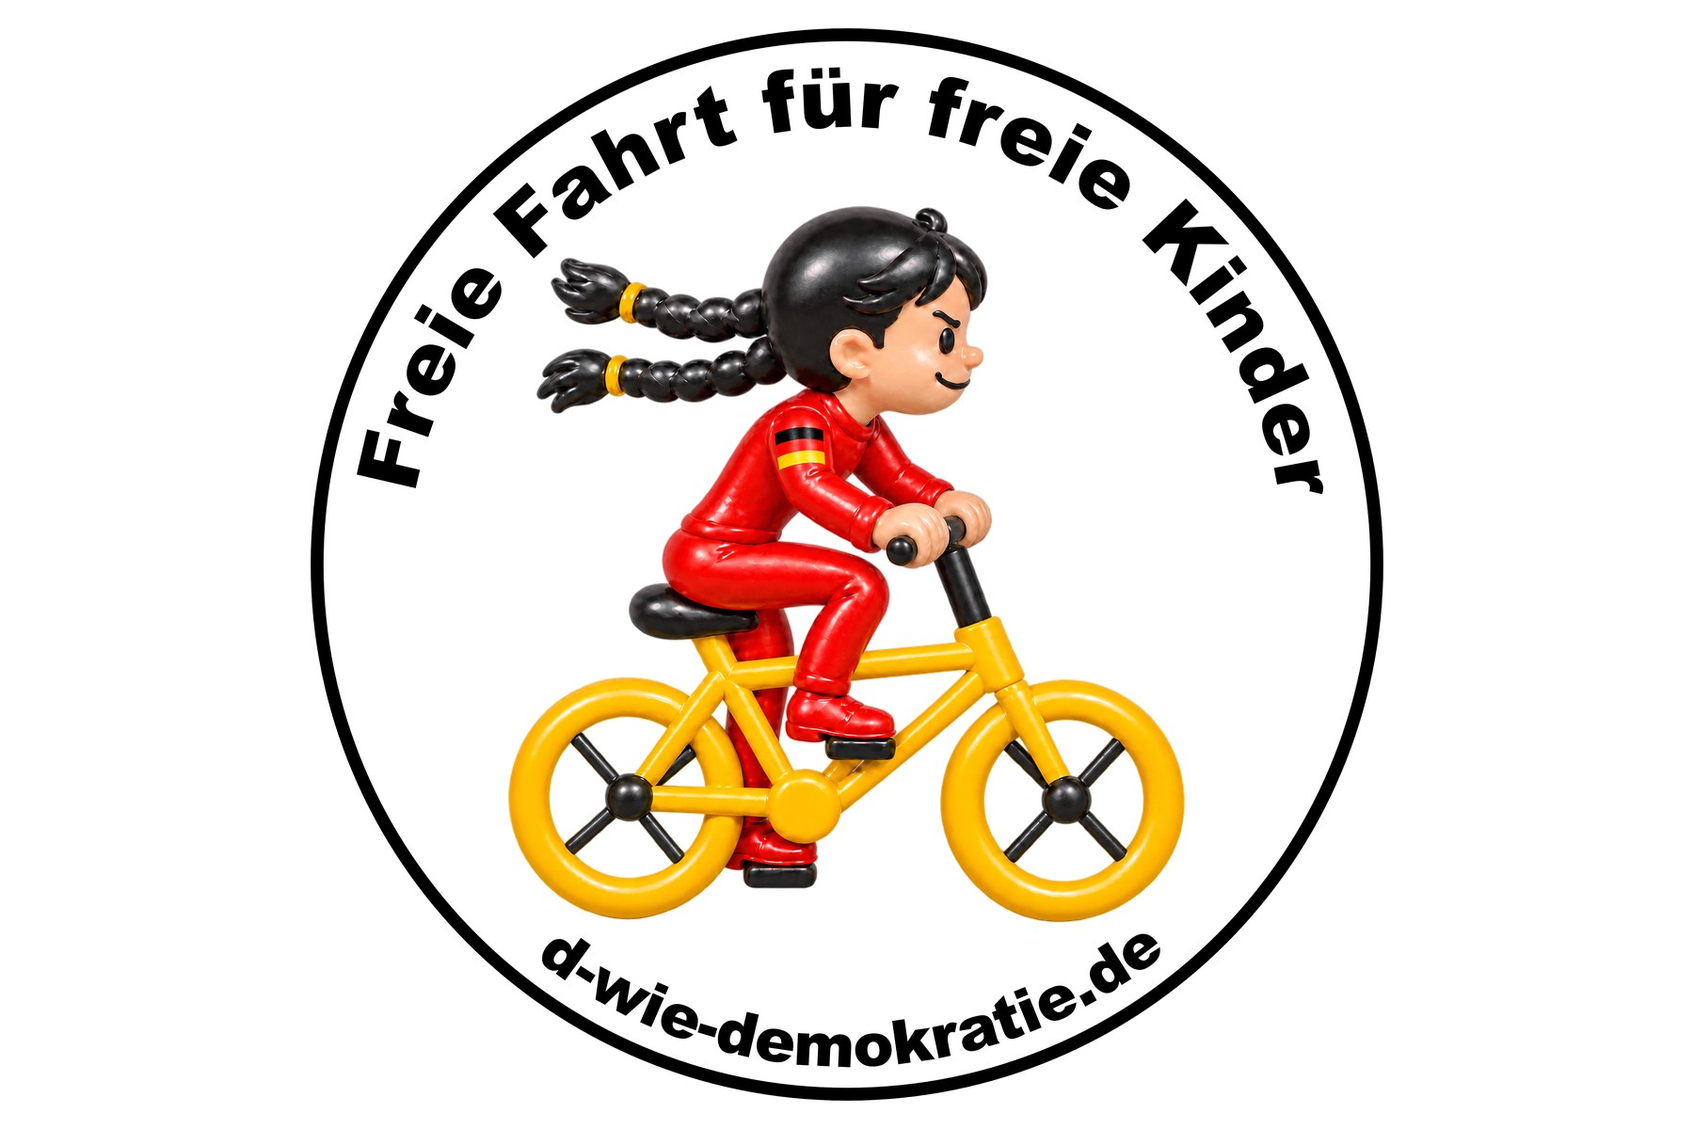
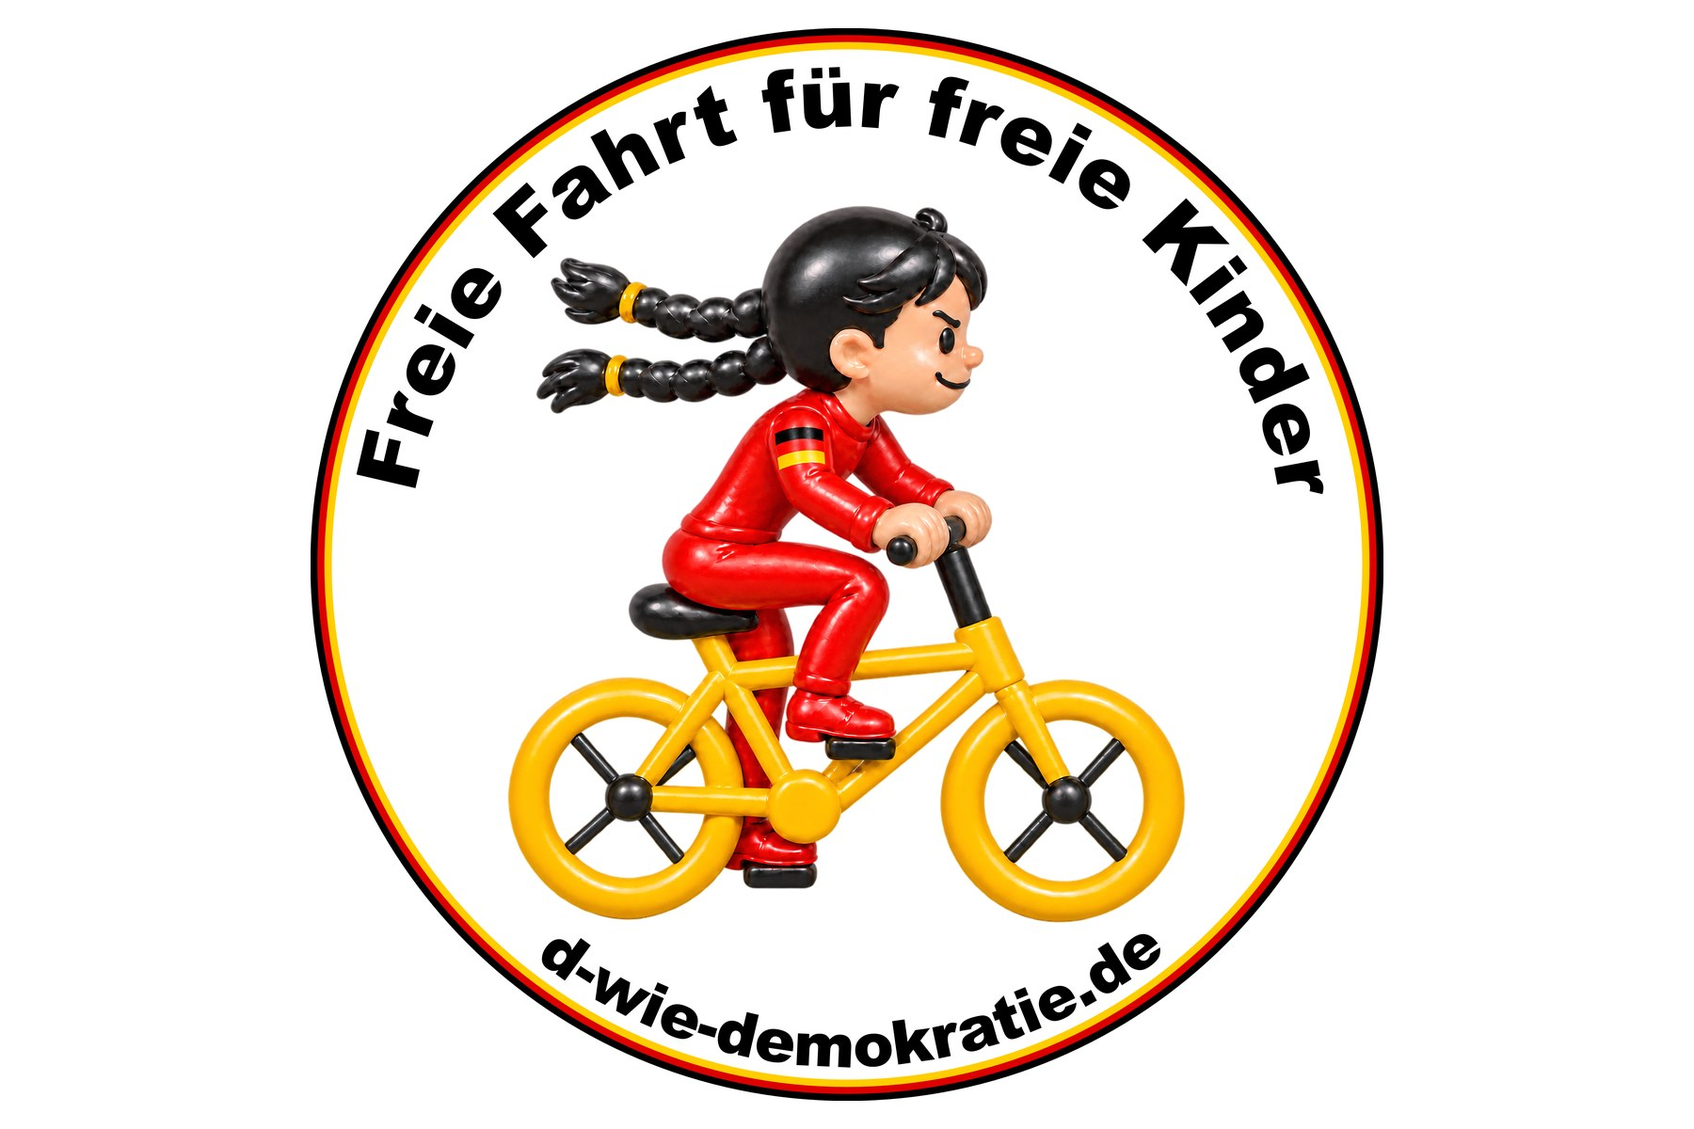
Motiv 15: Rand in Schwarz-Rot-Gold statt nur schwarz (beide Fassungen, Startseiten-Querformat); CLAUDE.md: neuer Rand für runde Motive

diff --git a/CLAUDE.md b/CLAUDE.md
@@ -24,7 +24,7 @@ Push to `main` triggers GitHub Actions (`.github/workflows/deploy.yml`), which b
 
 - `src/layouts/Layout.astro`: shared `<head>` (meta, Open Graph, Umami script), sticky header with black-red-gold stripe and tab navigation, footer links. Global CSS variables live here. Also holds the tab order (`reiter`) used for swiping between tabs on mobile and for the slide animation (native cross-document View Transitions, only on touch devices); a new tab must be added there as well as in the nav. The ☰ menu at the right of the header lists all pages (array `menue`, plus Impressum/Datenschutz in `menueKlein`); a new page without its own tab only goes there, and such a page gets its own red-underlined tab for the current page (`aktuell`): on phones it replaces „Motive“ (short name `handy`, e.g. „Einreichen“, „Geschichte“), from 700 px it sits after „Motive“ (name `kurz`, e.g. „Geschichte“). Tabs since 2026-11-18: logo (start), Fragen, Verbündete, Motive; since 2026-11-25 the Motive tab reads „Motive & Shop“ (only below 340 px „Motive“; ☰ menu entry too); to make room „Fragen“ becomes „FAQ“ below 410 px and on desktop when an extra tab for the current page is shown (classes `frage-lang/-kurz`, `motive-lang/-kurz`, `mit-aktuell`); the flag history tab is „Geschichte“ on desktop too. Measured at 320–1000 px, nothing overlaps the ☰; „Mitmachen“ and „Unterstützen“ are only in the ☰ menu. These tabs are not part of `reiter`/swiping. Pages not in the menu (Statistik) mark the ☰ with the red bar instead. Header widths are tuned so everything fits from 320 px; re-measure after changing tab names.
 - `src/pages/index.astro`: landing page: photo slider at the top (crossfade every few seconds, newest motif first; arrows ‹ › beside the line „Motiv N von M“ below and the arrow keys step through and stop it, since 2026-11-22 instead of dots; no swipe, that switches tabs; `bilder` array at the top, files in `src/assets/slider/`, new ones 1800 × 1200 px JPEG named `motiv-<nr>-<was>.jpg`; each photo links to `/motive/#motiv-<nr>` of the motif it shows; since 2026-11-21 a mix of two AI photos and three motif slides (`07-motiv-7.jpg` etc., since 2026-11-22 motif as large as possible on white without text, built from the print PNGs with `scripts/slider-querformate.py`; the line below each image („Motiv <nr> von <anzahl>“) is HTML, field `text` in `bilder`, no AI label); the AI photos are to be replaced by real photos of shirts; the AI photos carry the visible "KI-generiert" note (Art. 50 AI Act, must stay visible, not behind a click) for entries with `foto: true`), then visible h1 „Wir zeigen Flagge“, the values with links to Art. 1–5 GG, a box styled as the flag (black-red-gold stripes, with the 1990 Reichstag photo as a grey watermark; its credit sits below the box) that rotates quotes (array `zitate` at the top: Klopp, Steinmeier …; each with an `id` such as `zitat-aigner`, so `/#zitat-aigner` shows that quote and stops the rotation; each with a button to the video or speech, only linked, not embedded; Klopp's video also linked in FAQ `#farben`; below the dots a small line links „Viele weitere Stimmen …“ to the 2024 campaign demokratie-liebe.de (Artikel 1 e.V.), jumping straight to „Erstunterzeichnerinnen und Erstunterzeichner“ via `#brxe-idyuix` (no text fragment: it would match the same words in the PDF paragraph above), new tab, Umami `mehr-stimmen`), then a preview of all motifs, newest first (thumbnails of the first version, each linking to `/motive/#motiv-<nr>`; later only the newest). Old anchors `/#motiv-<nr>`, `/#motive`, `/#herunterladen` and `/#shop` are forwarded to `/motive/` by an inline script.
-- `src/pages/motive.astro`: tab „Motive“ (since 2026-11-18): intro (we want many motifs, from children, artists, designers …; link to „Motiv einreichen“), then two accordion questions (`<details>`, `#herunterladen` and `#shop` open them; download terms: print and share freely, don't alter; shop: Spreadshop by Spreadshirt (Leipzig) https://d-wie-demokratie.myspreadshop.de/, set up as Non-Profit-Shop (margin 0, customer pays Spreadshirt's base price), clothing organic cotton or recycled material (almost all Stanley/Stella; hats and beanies recycled), plus bags (organic or recycled), mugs, bottles, stickers, magnets, posters, aprons, umbrellas (shop answer and FAQ say so since 2026-11-26; product list with colours in `docs/shop-produkte.md`); Spreadshirt is the seller, 30-day return/exchange; linked from the question (button) and per motif or per version (`shop` in `liste` or in a `varianten` entry, `/all?mainDesignId=<id>`; switch `shopAktiv`), not embedded, so the site stays free of third-party cookies; biotshirt (YTWOO, Düsseldorf) was linked 2026-11-12 to 2026-11-18 and dropped because it accepts no returns (texts in commit 7918eb7); wording rule: never call products „GOTS-zertifiziert“, only say what the product pages state, e.g. „aus Bio-Baumwolle“) then the numbered motifs one under another (since 2026-11-27 newest first by default; two pill buttons „Neueste zuerst / Älteste zuerst“ right-aligned above the list reorder them by JS, choice kept in `localStorage['motive-sortierung']`; without JS 1 upwards; drafts stay last; since 2026-11-28 a search field left of them filters while typing by title, alt text, number, designer and the field `stichwoerter` per motif (only specific words, taken from the Spreadshop tags without the generic ones; give every new motif `stichwoerter` and use the same words plus the generic ones as shop tags), ä/ae and case ignored, a pure number finds that motif, shows „N von M Motiven“ or „Kein Motiv gefunden“, search kept in the URL `?suche=`, Umami `motive-suche` counts only that someone searched, not the term; list `liste` in `src/data/motive.ts`, shared with the landing-page preview, each linkable via `/motive/#motiv-<nr>`), each with links to PNG, PDF and its shop search. Per motif: PNG `src/assets/motive/d-wie-demokratie-motiv-<nr>.png` (4000 px, transparent; thumbnail and download) and PDF `public/download/d-wie-demokratie-motiv-<nr>.pdf` (CMYK); a motif only shows once its PNG exists, a missing PDF or shop link just drops that link. Klaus keeps all motif files (PDF and PNG, same name) in `motive/` (gitignored working folder, a mirror of the published files) and exports there from Affinity; when he says so, Claude compares it with `src/assets/motive/` and `public/download/`, checks only new or changed files (size, transparency, sRGB, PDF/X-4, FOGRA39, exact CMYK values, no layers, no images) and copies them over. Numbers are only given to finished motifs (print PNG exists), in order of completion; drafts never get a number. A draft has `bald: true` and `id` (anchor `/motive/#<id>`, preview file `src/assets/motive/bald/<id>.png`, Klaus's AI draft with the white outside made transparent), shows without number below the finished motifs with a gold „Kommt bald“ badge instead of download/shop links, and is left out of the landing-page preview (none at the moment; the blackbird „Oh Ei, oh Ei!“ was dropped 2026-11-21 as too negative). Since 2026-11-23 the website PNGs of the round motifs 3–10 and 12 have an exactly circular outer ring (made with `scripts/kreis-rund.py`, the AI rings were wavy); since the same day the Spreadshop designs of 3–10 and 12 use these round PNGs too (new designs with 23 products each: Stanley/Stella CREATOR, Blaster, SERENA, MINI CREATOR, PREPSTER, CHANGER, CRUISER, Nora, Mini Cruiser, four Stanley/Stella bags, stickers XS–XL in Mattweiß and Weiß glänzend, Tasse, Tasse zweifarbig in Gelb/Schwarz/Rot, Große Tasse, Emaille-Tasse in white, black rim and red rim, Kochschürze in white and red; old designs depublished, not deleted); the files in `motive/` still have the old rings until Klaus reworks each motif. When a draft is finished: delete `bald`/`id`, give it the next free `nr`, put the PNG in place. Motiv 3 „Gesunde Vielfalt“ (until 2026-11-21 „Vitamin D“, same fruit picture), 4 „Demokratie braucht Schutz“ 5 „Demokratie braucht Stacheln“ 6 „Demokratie braucht Schärfe“ 7 „Dackel lieben Demokratie“ 8 „Farbe bekennen!“ 9 „Alles wird Hut“ 10 „Keine Angst, Hasen!“ 11 „Entchen gut, alles gut“ (oval, 4000 × 2667) 12 „Hinschauen. Zuhören. Mund aufmachen.“ (2026-11-21) 13 „DEMO“ (2026-11-22, banner carried by walking letters KRATIE; URL set by Klaus in Affinity; `-dunkel` = same on a white rounded rectangle, since the black letters vanish on dark fabric) 14 „Schnurren war gestern“ (2026-11-22, woodcut tiger, text set by Klaus in Affinity; `-dunkel` = text white) and 15 „Freie Fahrt für freie Kinder“ (2026-11-24, girl on a bike as glossy toy figure, round badge built by Klaus in Affinity, working file `motive/d-wie-demokratie-motiv-15.af`; `''` = white disc „für alle“, `-transparent` = inside transparent for light fabrics; ring 45 px) are PNG only, with embedded metadata (title, creator D wie Demokratie, contact info@d-wie-demokratie.de, usage note „frei drucken und teilen, nicht verändern“ in the copyright field; no © claim since purely AI-generated images are generally not protected in Germany) (ChatGPT image, upscaled to 4000 px in Photoshop with „Details erhalten 2.0“, white outside made transparent, reduced to 256 colours to stay under Spreadshirt's 10 MB limit). A motif can have several versions (`varianten` in `liste`, each with an `endung`; `versteckt: true` hides a version while its files stay, used since 2026-11-18 for both `-farbig` versions such as `-qr-weiss` or `-dunkel`, a button name and a short text): files `d-wie-demokratie-motiv-<nr><endung>.png` (in `src/assets/motive/`) and `.pdf` (in `public/download/`), same name, only the extension differs; buttons switch between them (without JS all are listed), each version is previewed on a checkerboard in the tone of the fabric it is meant for (since 2026-11-23, shows transparency): light checkerboard for „helle“ versions, blue-grey for „alle“ versions and for the single-version round motifs 3–12, anthracite for „dunkle“ (`grundStoff`, `karo()`, `einzelStoff()` in motive.astro); `-farbig` („Für mittlere Produkte“) mid blue, `-dunkel` („Für dunkle Produkte“, with white outline) anthracite (map `stoff`), or an explicit `stoff` per version (Motiv 1 „Für alle Produkte“, white oval: mid blue-grey). PDF links carry a content hash (`?v=`) so a replaced PDF is never served from browser cache. `public/download/d-wie-demokratie-oval.png/.pdf` are kept for old links.
+- `src/pages/motive.astro`: tab „Motive“ (since 2026-11-18): intro (we want many motifs, from children, artists, designers …; link to „Motiv einreichen“), then two accordion questions (`<details>`, `#herunterladen` and `#shop` open them; download terms: print and share freely, don't alter; shop: Spreadshop by Spreadshirt (Leipzig) https://d-wie-demokratie.myspreadshop.de/, set up as Non-Profit-Shop (margin 0, customer pays Spreadshirt's base price), clothing organic cotton or recycled material (almost all Stanley/Stella; hats and beanies recycled), plus bags (organic or recycled), mugs, bottles, stickers, magnets, posters, aprons, umbrellas (shop answer and FAQ say so since 2026-11-26; product list with colours in `docs/shop-produkte.md`); Spreadshirt is the seller, 30-day return/exchange; linked from the question (button) and per motif or per version (`shop` in `liste` or in a `varianten` entry, `/all?mainDesignId=<id>`; switch `shopAktiv`), not embedded, so the site stays free of third-party cookies; biotshirt (YTWOO, Düsseldorf) was linked 2026-11-12 to 2026-11-18 and dropped because it accepts no returns (texts in commit 7918eb7); wording rule: never call products „GOTS-zertifiziert“, only say what the product pages state, e.g. „aus Bio-Baumwolle“) then the numbered motifs one under another (since 2026-11-27 newest first by default; two pill buttons „Neueste zuerst / Älteste zuerst“ right-aligned above the list reorder them by JS, choice kept in `localStorage['motive-sortierung']`; without JS 1 upwards; drafts stay last; since 2026-11-28 a search field left of them filters while typing by title, alt text, number, designer and the field `stichwoerter` per motif (only specific words, taken from the Spreadshop tags without the generic ones; give every new motif `stichwoerter` and use the same words plus the generic ones as shop tags), ä/ae and case ignored, a pure number finds that motif, shows „N von M Motiven“ or „Kein Motiv gefunden“, search kept in the URL `?suche=`, Umami `motive-suche` counts only that someone searched, not the term; list `liste` in `src/data/motive.ts`, shared with the landing-page preview, each linkable via `/motive/#motiv-<nr>`), each with links to PNG, PDF and its shop search. Per motif: PNG `src/assets/motive/d-wie-demokratie-motiv-<nr>.png` (4000 px, transparent; thumbnail and download) and PDF `public/download/d-wie-demokratie-motiv-<nr>.pdf` (CMYK); a motif only shows once its PNG exists, a missing PDF or shop link just drops that link. Klaus keeps all motif files (PDF and PNG, same name) in `motive/` (gitignored working folder, a mirror of the published files) and exports there from Affinity; when he says so, Claude compares it with `src/assets/motive/` and `public/download/`, checks only new or changed files (size, transparency, sRGB, PDF/X-4, FOGRA39, exact CMYK values, no layers, no images) and copies them over. Numbers are only given to finished motifs (print PNG exists), in order of completion; drafts never get a number. A draft has `bald: true` and `id` (anchor `/motive/#<id>`, preview file `src/assets/motive/bald/<id>.png`, Klaus's AI draft with the white outside made transparent), shows without number below the finished motifs with a gold „Kommt bald“ badge instead of download/shop links, and is left out of the landing-page preview (none at the moment; the blackbird „Oh Ei, oh Ei!“ was dropped 2026-11-21 as too negative). Since 2026-11-23 the website PNGs of the round motifs 3–10 and 12 have an exactly circular outer ring (made with `scripts/kreis-rund.py`, the AI rings were wavy); since the same day the Spreadshop designs of 3–10 and 12 use these round PNGs too (new designs with 23 products each: Stanley/Stella CREATOR, Blaster, SERENA, MINI CREATOR, PREPSTER, CHANGER, CRUISER, Nora, Mini Cruiser, four Stanley/Stella bags, stickers XS–XL in Mattweiß and Weiß glänzend, Tasse, Tasse zweifarbig in Gelb/Schwarz/Rot, Große Tasse, Emaille-Tasse in white, black rim and red rim, Kochschürze in white and red; old designs depublished, not deleted); the files in `motive/` still have the old rings until Klaus reworks each motif. When a draft is finished: delete `bald`/`id`, give it the next free `nr`, put the PNG in place. Motiv 3 „Gesunde Vielfalt“ (until 2026-11-21 „Vitamin D“, same fruit picture), 4 „Demokratie braucht Schutz“ 5 „Demokratie braucht Stacheln“ 6 „Demokratie braucht Schärfe“ 7 „Dackel lieben Demokratie“ 8 „Farbe bekennen!“ 9 „Alles wird Hut“ 10 „Keine Angst, Hasen!“ 11 „Entchen gut, alles gut“ (oval, 4000 × 2667) 12 „Hinschauen. Zuhören. Mund aufmachen.“ (2026-11-21) 13 „DEMO“ (2026-11-22, banner carried by walking letters KRATIE; URL set by Klaus in Affinity; `-dunkel` = same on a white rounded rectangle, since the black letters vanish on dark fabric) 14 „Schnurren war gestern“ (2026-11-22, woodcut tiger, text set by Klaus in Affinity; `-dunkel` = text white) and 15 „Freie Fahrt für freie Kinder“ (2026-11-24, girl on a bike as glossy toy figure, round badge built by Klaus in Affinity, working file `motive/d-wie-demokratie-motiv-15.af`; `''` = white disc „für alle“, `-transparent` = inside transparent for light fabrics; since 2026-11-28 the ring of 15 and 16 is black-red-gold, three strokes of 25/26 px, see the Affinity values in Claude's notes; all future round motifs get this ring) are PNG only, with embedded metadata (title, creator D wie Demokratie, contact info@d-wie-demokratie.de, usage note „frei drucken und teilen, nicht verändern“ in the copyright field; no © claim since purely AI-generated images are generally not protected in Germany) (ChatGPT image, upscaled to 4000 px in Photoshop with „Details erhalten 2.0“, white outside made transparent, reduced to 256 colours to stay under Spreadshirt's 10 MB limit). A motif can have several versions (`varianten` in `liste`, each with an `endung`; `versteckt: true` hides a version while its files stay, used since 2026-11-18 for both `-farbig` versions such as `-qr-weiss` or `-dunkel`, a button name and a short text): files `d-wie-demokratie-motiv-<nr><endung>.png` (in `src/assets/motive/`) and `.pdf` (in `public/download/`), same name, only the extension differs; buttons switch between them (without JS all are listed), each version is previewed on a checkerboard in the tone of the fabric it is meant for (since 2026-11-23, shows transparency): light checkerboard for „helle“ versions, blue-grey for „alle“ versions and for the single-version round motifs 3–12, anthracite for „dunkle“ (`grundStoff`, `karo()`, `einzelStoff()` in motive.astro); `-farbig` („Für mittlere Produkte“) mid blue, `-dunkel` („Für dunkle Produkte“, with white outline) anthracite (map `stoff`), or an explicit `stoff` per version (Motiv 1 „Für alle Produkte“, white oval: mid blue-grey). PDF links carry a content hash (`?v=`) so a replaced PDF is never served from browser cache. `public/download/d-wie-demokratie-oval.png/.pdf` are kept for old links.
 - Motive page extras (since 2026-11-23): first question „Kann ich selbst Motive beisteuern?“ (`#beisteuern`, live; „Werten und Zielen“ expands like on /verbuendete/, the three goals live in `src/components/Ziele.astro`, shared). Designer info is public since 2026-11-25 (`gestalterAktiv` in `src/data/gestalter.ts`; set to `import.meta.env.DEV` to hide it again): small ⓘ after a motif title opens „Idee und Gestaltung“ (link to `/gestalter/<id>/`, page `src/pages/gestalter/[id].astro` with photo, text, homepage link and all motifs of that person) with one sentence `entstehung` (first person); per motif fields `gestalter`, `entstehung` in `motive.ts`; the ⓘ shows as soon as `gestalter` is set. Since 2026-11-25 there is no „Warum ich das Motiv gemacht habe“ any more: the designer writes personal thoughts as a comment (Klaus did for Motiv 1 and 2), which gives the comments more life. Since 2026-11-25 all motifs 1–15 have `gestalter: 'klaus-p-wolf'` and an honest `entstehung` (where ChatGPT made image/lettering and what Klaus did in Photoshop/Affinity), so potential artists see how designers are credited. Comments by allies (since 2026-11-25, `kommentareAktiv` in `motive.ts`): a speech bubble 💬 after the title (count in front if there are comments) opens a box under the motif with the comments (field `kommentare` per motif: name, zusatz, text, seit; name links to /verbuendete/) and a form (comment, e-mail, consent; honeypot + 4 s) that POSTs to the EspoCRM Lead Capture „Kommentare zu Motiven“ (`kommentarUrl`, cArt 'Kommentar', cMotiv, cKommentar; no opt-in, no duplicate check). The page always answers „Danke! Wir melden uns per E-Mail.“ so nobody can test who is an ally. Klaus checks that the e-mail belongs to an ally, then Claude adds the comment (typos fixed, content unchanged; always APPEND new comments at the end of `kommentare`, because each comment has its own link `/motive/#motiv-<nr>-kommentar-<n>` by position, which opens the box, scrolls there and highlights it; a small link icon right-aligned in the last line of the comment copies the link and shows „Link kopiert“ (on touch devices it opens the share menu; on hover on a computer a dark label „Link zu diesem Kommentar kopieren“), Umami `kommentar-link`); mail templates „Kommentar – eingetragen“ / „Kommentar – erst verbünden“; privacy text in section 4 of `datenschutz.astro` (`#kommentare`). Locally Motiv 1 shows a sample comment („Beispiel, nur lokal“). Other designers only with written consent; children only first name and class, no photo. Klaus's bio is duplicated in `gestalter.ts` and the FAQ, unify before going live.
 - `src/pages/haeufige-fragen.astro`: FAQ page, including who started the initiative; the biography with portrait (`src/assets/klaus-p-wolf.jpg`) is collapsed until the name is clicked (open without JavaScript); `/haeufige-fragen/#wer` (and `#lebenslauf`) open the question and the biography.
 - `src/pages/verbuendete.astro`: tab „Verbündete“ („Wir sind Verbündete“: people, organisations, firms that share our values), array `verbuendete` at the top, grouped by `art`; „Werte und Ziele“ in the lead opens the values (shared component `src/components/Werte.astro`, also used on the landing page) and our three goals, `#werte` opens it; each entry with `seit` (date added, YYYY-MM-DD; shown newest first, Klaus with `zuletzt: true` always last of his group) and optionally `zusatz`, `url`, `zitat` and `logo` (files in `src/assets/verbuendete/`). Only add entries after checking them and with written consent (published under Art. 6 (1) a GDPR, see section 4 of `datenschutz.astro`). While the array is empty a „ganz neu“ note shows. Sign-up (since 2026-11-22) via a form in `#eintragen` (only with JS; Person: Titel/Vorname/Nachname, Organisation: name sent as lastName; Tätigkeit und Ort required, Website, Satz, e-mail, consent checkbox, for organisations „darf sprechen“; honeypot + 4-second minimum) that POSTs JSON to the EspoCRM Lead Capture „Verbündete“ (`anfrageUrl`, custom Lead fields cArt, cTitel, cTaetigkeit, cSatz, cVertretung; target list „Verbündete – Anfragen“; double opt-in mail from info@ via template „Bestätigung Verbündete“; EspoCRM sends the CORS headers itself). Nothing is published automatically: Klaus checks the lead, then the entry is added to `verbuendete`. Unconfirmed or unpublished requests are deleted after three months (section 4 of `datenschutz.astro`). E-mail stays as alternative; Umami `verbuendete-formular` and `email-verbuendete`. „Unterstützen“ has no tab anymore, only the ☰ menu.
